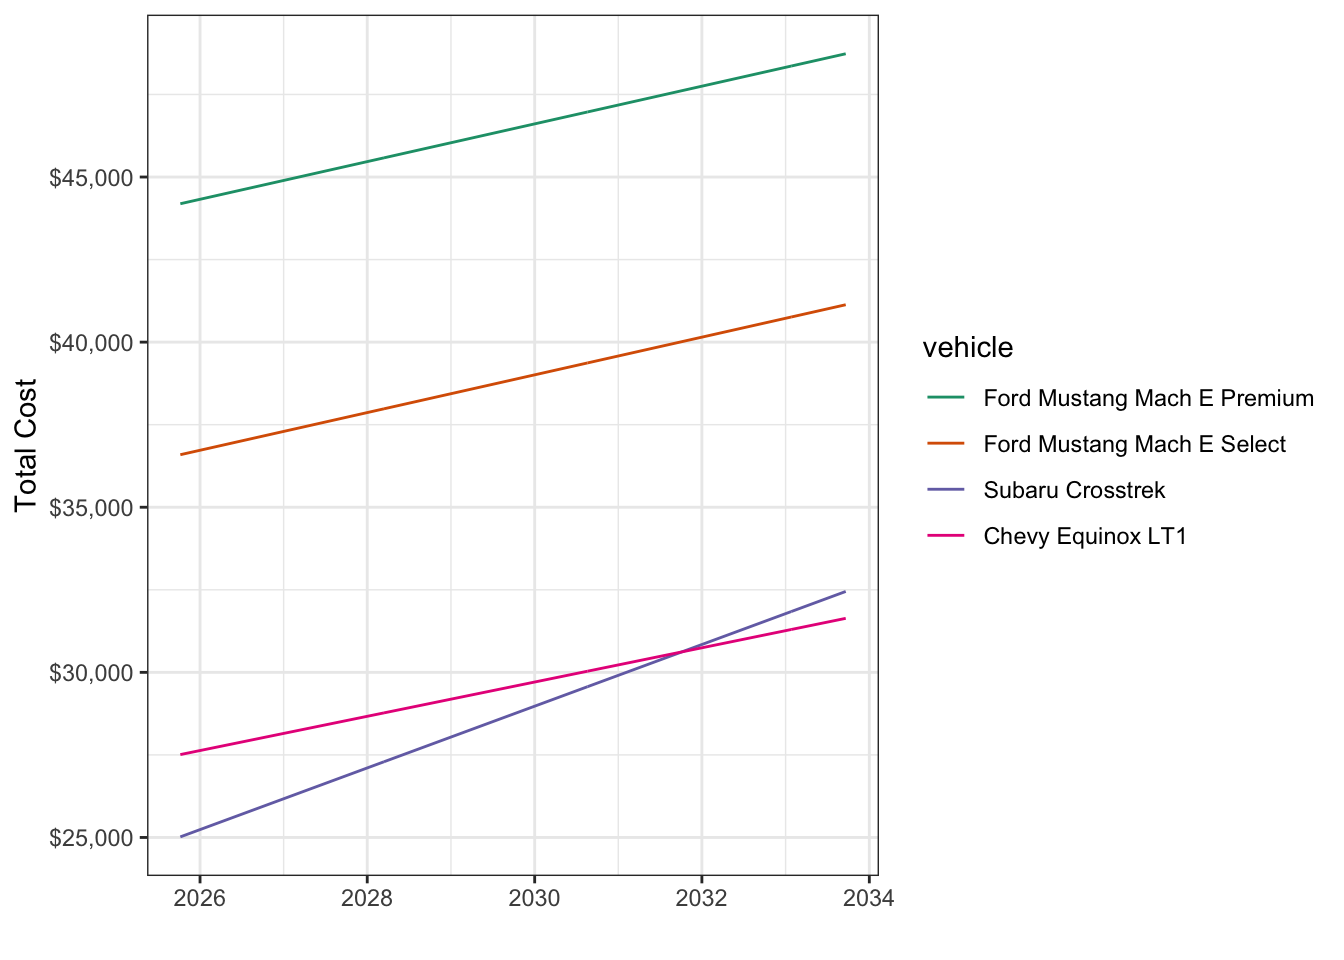
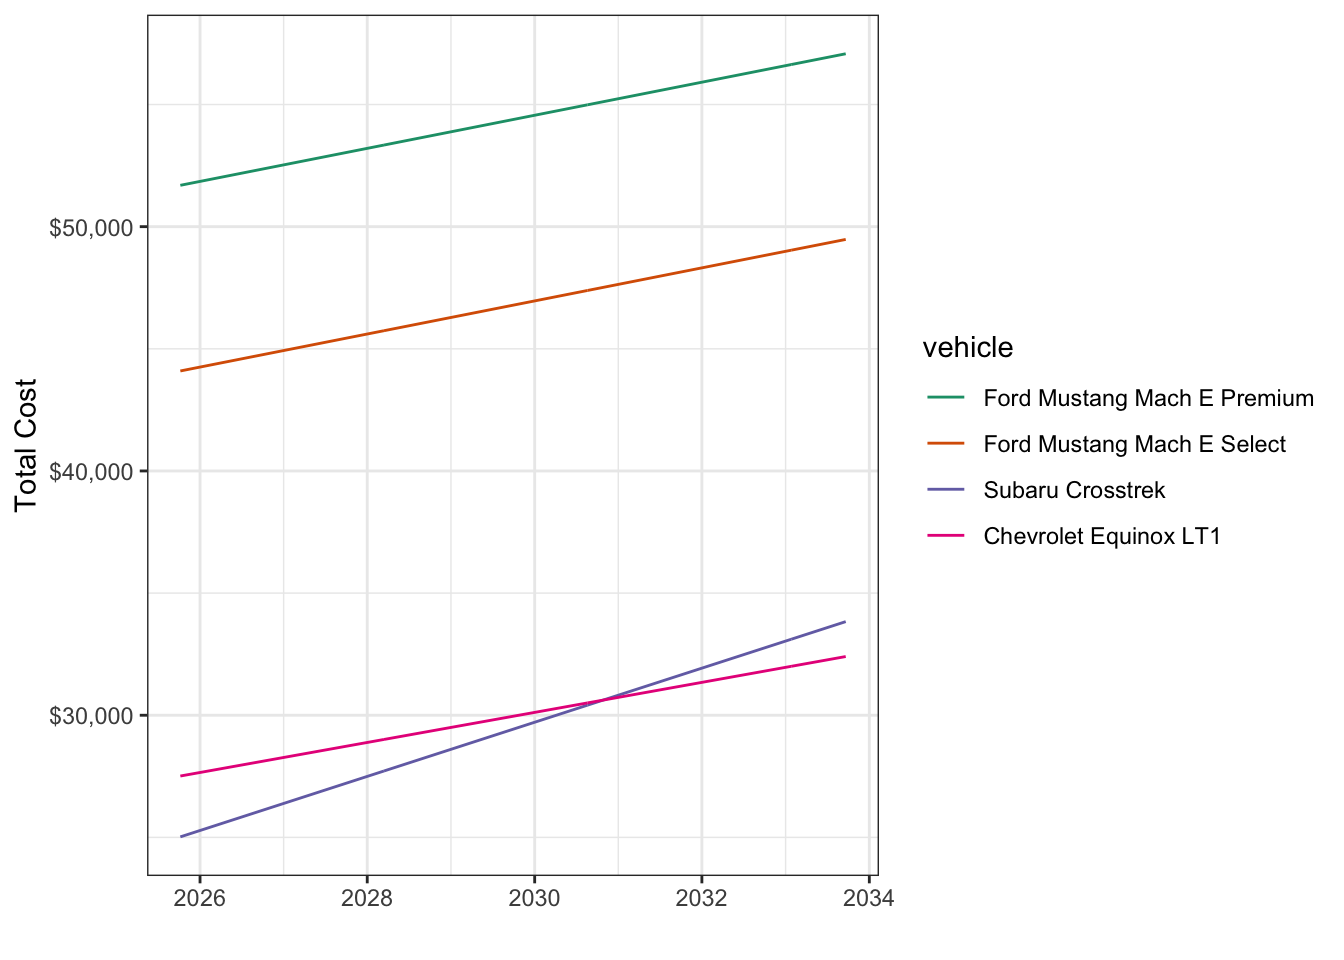
Built site for gh-pages

diff --git a/cars.html b/cars.html
@@ -2,11 +2,11 @@
 <html xmlns="http://www.w3.org/1999/xhtml" lang="en" xml:lang="en"><head>
 
 <meta charset="utf-8">
-<meta name="generator" content="quarto-1.7.33">
+<meta name="generator" content="quarto-1.7.34">
 
 <meta name="viewport" content="width=device-width, initial-scale=1.0, user-scalable=yes">
 
-<meta name="dcterms.date" content="2025-08-24">
+<meta name="dcterms.date" content="2025-09-02">
 
 <title>cars</title>
 <style>
@@ -66,7 +66,7 @@ pre > code.sourceCode > span > a:first-child::before { text-decoration: underlin
 <script src="cars_files/libs/quarto-html/tippy.umd.min.js"></script>
 <script src="cars_files/libs/quarto-html/anchor.min.js"></script>
 <link href="cars_files/libs/quarto-html/tippy.css" rel="stylesheet">
-<link href="cars_files/libs/quarto-html/quarto-syntax-highlighting-ea385d0e468b0dd5ea5bf0780b1290d9.css" rel="stylesheet" id="quarto-text-highlighting-styles">
+<link href="cars_files/libs/quarto-html/quarto-syntax-highlighting-c8ad9e5dbd60b7b70b38521ab19b7da4.css" rel="stylesheet" id="quarto-text-highlighting-styles">
 <script src="cars_files/libs/bootstrap/bootstrap.min.js"></script>
 <link href="cars_files/libs/bootstrap/bootstrap-icons.css" rel="stylesheet">
 <link href="cars_files/libs/bootstrap/bootstrap-81267100e462c21b3d6c0d5bf76a3417.min.css" rel="stylesheet" append-hash="true" id="quarto-bootstrap" data-mode="light">
@@ -93,7 +93,7 @@ pre > code.sourceCode > span > a:first-child::before { text-decoration: underlin
     <div>
     <div class="quarto-title-meta-heading">Published</div>
     <div class="quarto-title-meta-contents">
-      <p class="date">August 24, 2025</p>
+      <p class="date">September 2, 2025</p>
     </div>
   </div>
   
@@ -160,7 +160,7 @@ pre > code.sourceCode > span > a:first-child::before { text-decoration: underlin
 <div class="sourceCode cell-code" id="cb8"><pre class="sourceCode r code-with-copy"><code class="sourceCode r"><span id="cb8-1"><a href="#cb8-1" aria-hidden="true" tabindex="-1"></a>cars <span class="ot">&lt;-</span> <span class="fu">read_csv</span>(<span class="fu">here</span>(<span class="st">'data'</span>,<span class="st">'cars.csv'</span>))</span></code><button title="Copy to Clipboard" class="code-copy-button"><i class="bi"></i></button></pre></div>
 </details>
 <div class="cell-output cell-output-stderr">
-<pre><code>Rows: 11 Columns: 13
+<pre><code>Rows: 12 Columns: 13
 ── Column specification ────────────────────────────────────────────────────────
 Delimiter: ","
 chr  (5): make, model, type, notes, links
@@ -178,12 +178,12 @@ dttm (1): test drive
 <span id="cb10-2"><a href="#cb10-2" aria-hidden="true" tabindex="-1"></a>energy_price_per_kwh <span class="ot">&lt;-</span> <span class="fl">0.25</span> <span class="co"># </span><span class="al">TODO</span><span class="co"> look up our actual rate in electricity bill</span></span>
 <span id="cb10-3"><a href="#cb10-3" aria-hidden="true" tabindex="-1"></a>gas_price_per_gal <span class="ot">&lt;-</span> <span class="dv">3</span> <span class="co"># </span><span class="al">TODO</span><span class="co"> find gas price predictions</span></span>
 <span id="cb10-4"><a href="#cb10-4" aria-hidden="true" tabindex="-1"></a></span>
-<span id="cb10-5"><a href="#cb10-5" aria-hidden="true" tabindex="-1"></a>dav_commute_mi <span class="ot">&lt;-</span> <span class="dv">30</span></span>
-<span id="cb10-6"><a href="#cb10-6" aria-hidden="true" tabindex="-1"></a>dav_days_commute_per_week <span class="ot">&lt;-</span> <span class="dv">4</span></span>
+<span id="cb10-5"><a href="#cb10-5" aria-hidden="true" tabindex="-1"></a>dav_commute <span class="ot">&lt;-</span> <span class="dv">30</span> <span class="sc">*</span> <span class="dv">4</span> <span class="co"># mileage + trips per week</span></span>
+<span id="cb10-6"><a href="#cb10-6" aria-hidden="true" tabindex="-1"></a>kel_a2_trips <span class="ot">&lt;-</span> <span class="fl">55.4</span> <span class="sc">/</span> <span class="dv">2</span> <span class="co"># A2 roundtrip once every two week</span></span>
 <span id="cb10-7"><a href="#cb10-7" aria-hidden="true" tabindex="-1"></a>road_trips_year <span class="ot">&lt;-</span> <span class="dv">532</span> <span class="sc">*</span> <span class="dv">1</span> <span class="sc">+</span> <span class="co"># indy</span></span>
 <span id="cb10-8"><a href="#cb10-8" aria-hidden="true" tabindex="-1"></a>    <span class="dv">408</span> <span class="sc">*</span> <span class="dv">1</span> <span class="sc">+</span> <span class="co"># columbus</span></span>
 <span id="cb10-9"><a href="#cb10-9" aria-hidden="true" tabindex="-1"></a>    <span class="dv">580</span> <span class="sc">*</span> <span class="dv">1</span> <span class="co"># des plaines</span></span>
-<span id="cb10-10"><a href="#cb10-10" aria-hidden="true" tabindex="-1"></a>mileage_per_week <span class="ot">&lt;-</span> dav_commute_mi <span class="sc">*</span> dav_days_commute_per_week <span class="sc">+</span> road_trips_year<span class="sc">/</span><span class="dv">52</span></span>
+<span id="cb10-10"><a href="#cb10-10" aria-hidden="true" tabindex="-1"></a>mileage_per_week <span class="ot">&lt;-</span> dav_commute <span class="sc">+</span> kel_a2_trips <span class="sc">+</span> road_trips_year<span class="sc">/</span><span class="dv">52</span></span>
 <span id="cb10-11"><a href="#cb10-11" aria-hidden="true" tabindex="-1"></a></span>
 <span id="cb10-12"><a href="#cb10-12" aria-hidden="true" tabindex="-1"></a>cars <span class="sc">%&lt;&gt;%</span> <span class="fu">mutate</span>(</span>
 <span id="cb10-13"><a href="#cb10-13" aria-hidden="true" tabindex="-1"></a>    <span class="at">price_minus_incentives =</span> <span class="fu">case_when</span>(</span>
@@ -193,7 +193,7 @@ dttm (1): test drive
 <span id="cb10-17"><a href="#cb10-17" aria-hidden="true" tabindex="-1"></a>        <span class="cn">TRUE</span> <span class="sc">~</span> price_approx</span>
 <span id="cb10-18"><a href="#cb10-18" aria-hidden="true" tabindex="-1"></a>    ),</span>
 <span id="cb10-19"><a href="#cb10-19" aria-hidden="true" tabindex="-1"></a>    <span class="at">cost_per_mile =</span> <span class="fu">case_when</span>(</span>
-<span id="cb10-20"><a href="#cb10-20" aria-hidden="true" tabindex="-1"></a>        type <span class="sc">==</span> <span class="st">'EV'</span> <span class="sc">~</span> battery_kWh <span class="sc">*</span> energy_price_per_kwh <span class="sc">/</span> range_mi,</span>
+<span id="cb10-20"><a href="#cb10-20" aria-hidden="true" tabindex="-1"></a>        <span class="fu">str_detect</span>(type, <span class="st">'EV'</span>) <span class="sc">~</span> battery_kWh <span class="sc">*</span> energy_price_per_kwh <span class="sc">/</span> range_mi,</span>
 <span id="cb10-21"><a href="#cb10-21" aria-hidden="true" tabindex="-1"></a>        <span class="fu">str_detect</span>(type, <span class="st">'ICE'</span>) <span class="sc">~</span> gas_price_per_gal <span class="sc">/</span> mpg_combined</span>
 <span id="cb10-22"><a href="#cb10-22" aria-hidden="true" tabindex="-1"></a>    ),</span>
 <span id="cb10-23"><a href="#cb10-23" aria-hidden="true" tabindex="-1"></a>    <span class="at">make_model =</span> <span class="fu">glue</span>(<span class="st">"{make} {model}"</span>),</span>
@@ -242,6 +242,38 @@ dttm (1): test drive
 <div>
 <figure class="figure">
 <p><img src="cars_files/figure-html/plot_cost_time-1.png" class="img-fluid figure-img" width="672"></p>
+</figure>
+</div>
+</div>
+</div>
+</section>
+<section id="car-cost-over-miles-driven" class="level2">
+<h2 class="anchored" data-anchor-id="car-cost-over-miles-driven">Car cost over miles driven</h2>
+<div class="cell">
+<details class="code-fold">
+<summary>Code</summary>
+<div class="sourceCode cell-code" id="cb12"><pre class="sourceCode r code-with-copy"><code class="sourceCode r"><span id="cb12-1"><a href="#cb12-1" aria-hidden="true" tabindex="-1"></a>car_cost_over_miles <span class="ot">&lt;-</span> <span class="fu">seq</span>(<span class="at">from =</span> <span class="dv">0</span>, <span class="at">to =</span> <span class="dv">100000</span>, <span class="at">by =</span> <span class="dv">10000</span>) <span class="sc">%&gt;%</span> </span>
+<span id="cb12-2"><a href="#cb12-2" aria-hidden="true" tabindex="-1"></a>    <span class="fu">lapply</span>(\(miles) {</span>
+<span id="cb12-3"><a href="#cb12-3" aria-hidden="true" tabindex="-1"></a>        cars <span class="sc">%&gt;%</span> </span>
+<span id="cb12-4"><a href="#cb12-4" aria-hidden="true" tabindex="-1"></a>            <span class="fu">mutate</span>(<span class="at">miles=</span>miles,</span>
+<span id="cb12-5"><a href="#cb12-5" aria-hidden="true" tabindex="-1"></a>                   <span class="at">cost_at_mileage =</span> purchase_cost <span class="sc">+</span> miles <span class="sc">*</span> cost_per_mile)</span>
+<span id="cb12-6"><a href="#cb12-6" aria-hidden="true" tabindex="-1"></a>    }) <span class="sc">%&gt;%</span> </span>
+<span id="cb12-7"><a href="#cb12-7" aria-hidden="true" tabindex="-1"></a>    <span class="fu">bind_rows</span>()</span>
+<span id="cb12-8"><a href="#cb12-8" aria-hidden="true" tabindex="-1"></a>car_cost_over_miles <span class="sc">%&gt;%</span> </span>
+<span id="cb12-9"><a href="#cb12-9" aria-hidden="true" tabindex="-1"></a>    <span class="fu">mutate</span>(<span class="at">make_model =</span> <span class="fu">factor</span>(make_model, <span class="at">levels =</span> vehicles)) <span class="sc">%&gt;%</span> </span>
+<span id="cb12-10"><a href="#cb12-10" aria-hidden="true" tabindex="-1"></a>    <span class="fu">ggplot</span>(<span class="fu">aes</span>(miles, cost_at_mileage, <span class="at">color =</span> make_model, <span class="at">group =</span> make_model)) <span class="sc">+</span></span>
+<span id="cb12-11"><a href="#cb12-11" aria-hidden="true" tabindex="-1"></a>    <span class="fu">geom_line</span>() <span class="sc">+</span></span>
+<span id="cb12-12"><a href="#cb12-12" aria-hidden="true" tabindex="-1"></a>    <span class="fu">scale_color_brewer</span>(<span class="at">palette =</span> <span class="st">'Dark2'</span>) <span class="sc">+</span></span>
+<span id="cb12-13"><a href="#cb12-13" aria-hidden="true" tabindex="-1"></a>    <span class="co">#scale_color_viridis_d(option = 'viridis') +</span></span>
+<span id="cb12-14"><a href="#cb12-14" aria-hidden="true" tabindex="-1"></a>    <span class="fu">scale_y_continuous</span>(<span class="at">labels =</span> <span class="fu">label_currency</span>()) <span class="sc">+</span></span>
+<span id="cb12-15"><a href="#cb12-15" aria-hidden="true" tabindex="-1"></a>    <span class="fu">guides</span>(<span class="at">color =</span> <span class="fu">guide_legend</span>(<span class="at">title =</span> <span class="st">'vehicle'</span>)) <span class="sc">+</span></span>
+<span id="cb12-16"><a href="#cb12-16" aria-hidden="true" tabindex="-1"></a>    <span class="fu">labs</span>(<span class="at">x =</span> <span class="st">''</span>,</span>
+<span id="cb12-17"><a href="#cb12-17" aria-hidden="true" tabindex="-1"></a>         <span class="at">y =</span> <span class="st">'Total Cost'</span>)</span></code><button title="Copy to Clipboard" class="code-copy-button"><i class="bi"></i></button></pre></div>
+</details>
+<div class="cell-output-display">
+<div>
+<figure class="figure">
+<p><img src="cars_files/figure-html/plot_cost_miles-1.png" class="img-fluid figure-img" width="672"></p>
 </figure>
 </div>
 </div>

diff --git a/index.html b/index.html
@@ -2,11 +2,11 @@
 <html xmlns="http://www.w3.org/1999/xhtml" lang="en" xml:lang="en"><head>
 
 <meta charset="utf-8">
-<meta name="generator" content="quarto-1.7.33">
+<meta name="generator" content="quarto-1.7.34">
 
 <meta name="viewport" content="width=device-width, initial-scale=1.0, user-scalable=yes">
 
-<meta name="dcterms.date" content="2025-08-24">
+<meta name="dcterms.date" content="2025-09-02">
 
 <title>cars</title>
 <style>
@@ -66,7 +66,7 @@ pre > code.sourceCode > span > a:first-child::before { text-decoration: underlin
 <script src="cars_files/libs/quarto-html/tippy.umd.min.js"></script>
 <script src="cars_files/libs/quarto-html/anchor.min.js"></script>
 <link href="cars_files/libs/quarto-html/tippy.css" rel="stylesheet">
-<link href="cars_files/libs/quarto-html/quarto-syntax-highlighting-ea385d0e468b0dd5ea5bf0780b1290d9.css" rel="stylesheet" id="quarto-text-highlighting-styles">
+<link href="cars_files/libs/quarto-html/quarto-syntax-highlighting-c8ad9e5dbd60b7b70b38521ab19b7da4.css" rel="stylesheet" id="quarto-text-highlighting-styles">
 <script src="cars_files/libs/bootstrap/bootstrap.min.js"></script>
 <link href="cars_files/libs/bootstrap/bootstrap-icons.css" rel="stylesheet">
 <link href="cars_files/libs/bootstrap/bootstrap-81267100e462c21b3d6c0d5bf76a3417.min.css" rel="stylesheet" append-hash="true" id="quarto-bootstrap" data-mode="light">
@@ -93,7 +93,7 @@ pre > code.sourceCode > span > a:first-child::before { text-decoration: underlin
     <div>
     <div class="quarto-title-meta-heading">Published</div>
     <div class="quarto-title-meta-contents">
-      <p class="date">August 24, 2025</p>
+      <p class="date">September 2, 2025</p>
     </div>
   </div>
   
@@ -160,7 +160,7 @@ pre > code.sourceCode > span > a:first-child::before { text-decoration: underlin
 <div class="sourceCode cell-code" id="cb8"><pre class="sourceCode r code-with-copy"><code class="sourceCode r"><span id="cb8-1"><a href="#cb8-1" aria-hidden="true" tabindex="-1"></a>cars <span class="ot">&lt;-</span> <span class="fu">read_csv</span>(<span class="fu">here</span>(<span class="st">'data'</span>,<span class="st">'cars.csv'</span>))</span></code><button title="Copy to Clipboard" class="code-copy-button"><i class="bi"></i></button></pre></div>
 </details>
 <div class="cell-output cell-output-stderr">
-<pre><code>Rows: 11 Columns: 13
+<pre><code>Rows: 12 Columns: 13
 ── Column specification ────────────────────────────────────────────────────────
 Delimiter: ","
 chr  (5): make, model, type, notes, links
@@ -178,12 +178,12 @@ dttm (1): test drive
 <span id="cb10-2"><a href="#cb10-2" aria-hidden="true" tabindex="-1"></a>energy_price_per_kwh <span class="ot">&lt;-</span> <span class="fl">0.25</span> <span class="co"># </span><span class="al">TODO</span><span class="co"> look up our actual rate in electricity bill</span></span>
 <span id="cb10-3"><a href="#cb10-3" aria-hidden="true" tabindex="-1"></a>gas_price_per_gal <span class="ot">&lt;-</span> <span class="dv">3</span> <span class="co"># </span><span class="al">TODO</span><span class="co"> find gas price predictions</span></span>
 <span id="cb10-4"><a href="#cb10-4" aria-hidden="true" tabindex="-1"></a></span>
-<span id="cb10-5"><a href="#cb10-5" aria-hidden="true" tabindex="-1"></a>dav_commute_mi <span class="ot">&lt;-</span> <span class="dv">30</span></span>
-<span id="cb10-6"><a href="#cb10-6" aria-hidden="true" tabindex="-1"></a>dav_days_commute_per_week <span class="ot">&lt;-</span> <span class="dv">4</span></span>
+<span id="cb10-5"><a href="#cb10-5" aria-hidden="true" tabindex="-1"></a>dav_commute <span class="ot">&lt;-</span> <span class="dv">30</span> <span class="sc">*</span> <span class="dv">4</span> <span class="co"># mileage + trips per week</span></span>
+<span id="cb10-6"><a href="#cb10-6" aria-hidden="true" tabindex="-1"></a>kel_a2_trips <span class="ot">&lt;-</span> <span class="fl">55.4</span> <span class="sc">/</span> <span class="dv">2</span> <span class="co"># A2 roundtrip once every two week</span></span>
 <span id="cb10-7"><a href="#cb10-7" aria-hidden="true" tabindex="-1"></a>road_trips_year <span class="ot">&lt;-</span> <span class="dv">532</span> <span class="sc">*</span> <span class="dv">1</span> <span class="sc">+</span> <span class="co"># indy</span></span>
 <span id="cb10-8"><a href="#cb10-8" aria-hidden="true" tabindex="-1"></a>    <span class="dv">408</span> <span class="sc">*</span> <span class="dv">1</span> <span class="sc">+</span> <span class="co"># columbus</span></span>
 <span id="cb10-9"><a href="#cb10-9" aria-hidden="true" tabindex="-1"></a>    <span class="dv">580</span> <span class="sc">*</span> <span class="dv">1</span> <span class="co"># des plaines</span></span>
-<span id="cb10-10"><a href="#cb10-10" aria-hidden="true" tabindex="-1"></a>mileage_per_week <span class="ot">&lt;-</span> dav_commute_mi <span class="sc">*</span> dav_days_commute_per_week <span class="sc">+</span> road_trips_year<span class="sc">/</span><span class="dv">52</span></span>
+<span id="cb10-10"><a href="#cb10-10" aria-hidden="true" tabindex="-1"></a>mileage_per_week <span class="ot">&lt;-</span> dav_commute <span class="sc">+</span> kel_a2_trips <span class="sc">+</span> road_trips_year<span class="sc">/</span><span class="dv">52</span></span>
 <span id="cb10-11"><a href="#cb10-11" aria-hidden="true" tabindex="-1"></a></span>
 <span id="cb10-12"><a href="#cb10-12" aria-hidden="true" tabindex="-1"></a>cars <span class="sc">%&lt;&gt;%</span> <span class="fu">mutate</span>(</span>
 <span id="cb10-13"><a href="#cb10-13" aria-hidden="true" tabindex="-1"></a>    <span class="at">price_minus_incentives =</span> <span class="fu">case_when</span>(</span>
@@ -193,7 +193,7 @@ dttm (1): test drive
 <span id="cb10-17"><a href="#cb10-17" aria-hidden="true" tabindex="-1"></a>        <span class="cn">TRUE</span> <span class="sc">~</span> price_approx</span>
 <span id="cb10-18"><a href="#cb10-18" aria-hidden="true" tabindex="-1"></a>    ),</span>
 <span id="cb10-19"><a href="#cb10-19" aria-hidden="true" tabindex="-1"></a>    <span class="at">cost_per_mile =</span> <span class="fu">case_when</span>(</span>
-<span id="cb10-20"><a href="#cb10-20" aria-hidden="true" tabindex="-1"></a>        type <span class="sc">==</span> <span class="st">'EV'</span> <span class="sc">~</span> battery_kWh <span class="sc">*</span> energy_price_per_kwh <span class="sc">/</span> range_mi,</span>
+<span id="cb10-20"><a href="#cb10-20" aria-hidden="true" tabindex="-1"></a>        <span class="fu">str_detect</span>(type, <span class="st">'EV'</span>) <span class="sc">~</span> battery_kWh <span class="sc">*</span> energy_price_per_kwh <span class="sc">/</span> range_mi,</span>
 <span id="cb10-21"><a href="#cb10-21" aria-hidden="true" tabindex="-1"></a>        <span class="fu">str_detect</span>(type, <span class="st">'ICE'</span>) <span class="sc">~</span> gas_price_per_gal <span class="sc">/</span> mpg_combined</span>
 <span id="cb10-22"><a href="#cb10-22" aria-hidden="true" tabindex="-1"></a>    ),</span>
 <span id="cb10-23"><a href="#cb10-23" aria-hidden="true" tabindex="-1"></a>    <span class="at">make_model =</span> <span class="fu">glue</span>(<span class="st">"{make} {model}"</span>),</span>
@@ -242,6 +242,38 @@ dttm (1): test drive
 <div>
 <figure class="figure">
 <p><img src="cars_files/figure-html/plot_cost_time-1.png" class="img-fluid figure-img" width="672"></p>
+</figure>
+</div>
+</div>
+</div>
+</section>
+<section id="car-cost-over-miles-driven" class="level2">
+<h2 class="anchored" data-anchor-id="car-cost-over-miles-driven">Car cost over miles driven</h2>
+<div class="cell">
+<details class="code-fold">
+<summary>Code</summary>
+<div class="sourceCode cell-code" id="cb12"><pre class="sourceCode r code-with-copy"><code class="sourceCode r"><span id="cb12-1"><a href="#cb12-1" aria-hidden="true" tabindex="-1"></a>car_cost_over_miles <span class="ot">&lt;-</span> <span class="fu">seq</span>(<span class="at">from =</span> <span class="dv">0</span>, <span class="at">to =</span> <span class="dv">100000</span>, <span class="at">by =</span> <span class="dv">10000</span>) <span class="sc">%&gt;%</span> </span>
+<span id="cb12-2"><a href="#cb12-2" aria-hidden="true" tabindex="-1"></a>    <span class="fu">lapply</span>(\(miles) {</span>
+<span id="cb12-3"><a href="#cb12-3" aria-hidden="true" tabindex="-1"></a>        cars <span class="sc">%&gt;%</span> </span>
+<span id="cb12-4"><a href="#cb12-4" aria-hidden="true" tabindex="-1"></a>            <span class="fu">mutate</span>(<span class="at">miles=</span>miles,</span>
+<span id="cb12-5"><a href="#cb12-5" aria-hidden="true" tabindex="-1"></a>                   <span class="at">cost_at_mileage =</span> purchase_cost <span class="sc">+</span> miles <span class="sc">*</span> cost_per_mile)</span>
+<span id="cb12-6"><a href="#cb12-6" aria-hidden="true" tabindex="-1"></a>    }) <span class="sc">%&gt;%</span> </span>
+<span id="cb12-7"><a href="#cb12-7" aria-hidden="true" tabindex="-1"></a>    <span class="fu">bind_rows</span>()</span>
+<span id="cb12-8"><a href="#cb12-8" aria-hidden="true" tabindex="-1"></a>car_cost_over_miles <span class="sc">%&gt;%</span> </span>
+<span id="cb12-9"><a href="#cb12-9" aria-hidden="true" tabindex="-1"></a>    <span class="fu">mutate</span>(<span class="at">make_model =</span> <span class="fu">factor</span>(make_model, <span class="at">levels =</span> vehicles)) <span class="sc">%&gt;%</span> </span>
+<span id="cb12-10"><a href="#cb12-10" aria-hidden="true" tabindex="-1"></a>    <span class="fu">ggplot</span>(<span class="fu">aes</span>(miles, cost_at_mileage, <span class="at">color =</span> make_model, <span class="at">group =</span> make_model)) <span class="sc">+</span></span>
+<span id="cb12-11"><a href="#cb12-11" aria-hidden="true" tabindex="-1"></a>    <span class="fu">geom_line</span>() <span class="sc">+</span></span>
+<span id="cb12-12"><a href="#cb12-12" aria-hidden="true" tabindex="-1"></a>    <span class="fu">scale_color_brewer</span>(<span class="at">palette =</span> <span class="st">'Dark2'</span>) <span class="sc">+</span></span>
+<span id="cb12-13"><a href="#cb12-13" aria-hidden="true" tabindex="-1"></a>    <span class="co">#scale_color_viridis_d(option = 'viridis') +</span></span>
+<span id="cb12-14"><a href="#cb12-14" aria-hidden="true" tabindex="-1"></a>    <span class="fu">scale_y_continuous</span>(<span class="at">labels =</span> <span class="fu">label_currency</span>()) <span class="sc">+</span></span>
+<span id="cb12-15"><a href="#cb12-15" aria-hidden="true" tabindex="-1"></a>    <span class="fu">guides</span>(<span class="at">color =</span> <span class="fu">guide_legend</span>(<span class="at">title =</span> <span class="st">'vehicle'</span>)) <span class="sc">+</span></span>
+<span id="cb12-16"><a href="#cb12-16" aria-hidden="true" tabindex="-1"></a>    <span class="fu">labs</span>(<span class="at">x =</span> <span class="st">''</span>,</span>
+<span id="cb12-17"><a href="#cb12-17" aria-hidden="true" tabindex="-1"></a>         <span class="at">y =</span> <span class="st">'Total Cost'</span>)</span></code><button title="Copy to Clipboard" class="code-copy-button"><i class="bi"></i></button></pre></div>
+</details>
+<div class="cell-output-display">
+<div>
+<figure class="figure">
+<p><img src="cars_files/figure-html/plot_cost_miles-1.png" class="img-fluid figure-img" width="672"></p>
 </figure>
 </div>
 </div>

diff --git a/cars_files/libs/quarto-html/quarto-syntax-highlighting-c8ad9e5dbd60b7b70b38521ab19b7da4.css b/cars_files/libs/quarto-html/quarto-syntax-highlighting-c8ad9e5dbd60b7b70b38521ab19b7da4.css
@@ -233,4 +233,4 @@ code span.wa {
   content: "</";
 }
 
-/*# sourceMappingURL=538754cbb4183396a2435bcb80637e05.css.map */
+/*# sourceMappingURL=405ffa06017179012420079c49e771b5.css.map */
